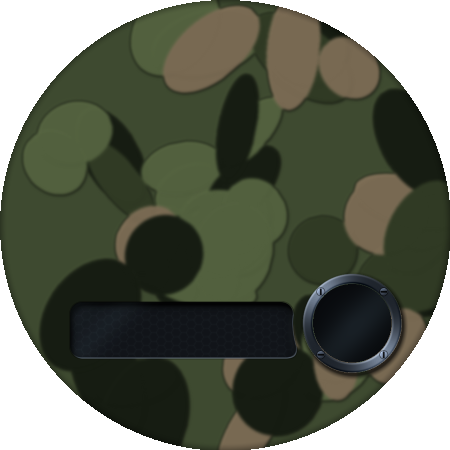
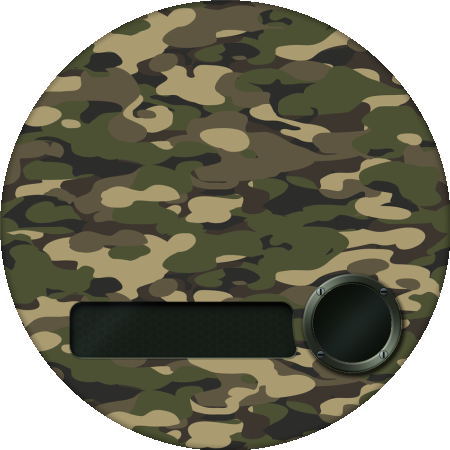
feat(camo): integrate authentic woodland camo pattern from uploaded image with full bleed and aligned chambers (v2.4)

diff --git a/generate_clean_backgrounds_and_quad_chambers.py b/generate_clean_backgrounds_and_quad_chambers.py
@@ -585,11 +585,41 @@ def build_3d_camo_plate(base_col, camo_palette, seed_val, count_inner, count_out
 
 import numpy as np
 
-# 2. URBAN CAMO
-camo_urban = [(26, 30, 36), (58, 64, 72), (92, 98, 108), (140, 146, 156)]
-img_02 = build_3d_camo_plate((46, 52, 60), camo_urban, seed_val=42, count_inner=22, count_outer=26, rx_range=(20, 48), ry_range=(14, 32))
+# 2. WOODLAND CAMO (bg_lcd_camo.png)
+src_camo_path = os.path.join(EXPORT_DIR, "source_camo_woodland.png")
+if not os.path.exists(src_camo_path):
+    alt_path = "C:/Users/bonst/.gemini/antigravity/brain/d3a6c7d4-5613-437a-a72c-e90fec512f25/.user_uploaded/media_1792233428021_086ed444.png"
+    if os.path.exists(alt_path):
+        raw_crop = Image.open(alt_path).crop((0, 0, 948, 948))
+        raw_crop.save(src_camo_path)
+
+camo_src = Image.open(src_camo_path).convert("RGB").resize((W, H), Image.Resampling.LANCZOS)
+arr_camo = np.array(camo_src, dtype=float)
+vig_camo = np.array(vig_map).reshape((H, W))
+disc_camo = np.array(inside_disc).reshape((H, W))
+
+arr_camo_vig = np.clip(arr_camo * vig_camo[:, :, np.newaxis], 0, 255).astype(np.uint8)
+alpha_camo = (disc_camo * 255).astype(np.uint8)
+img_02 = Image.fromarray(np.dstack([arr_camo_vig, alpha_camo]))
+
 apply_pods_and_subdial_housing_2x(
     img_02,
+    floor_rgb=(17, 23, 16),
+    bev_lit_rgb=(148, 166, 142),
+    bev_sh_rgb=(4, 6, 4),
+    honeycomb_gain=0.18,
+    sub_base_f=(36.0, 42.0, 34.0),
+    sub_spec_f=(160.0, 175.0, 155.0),
+    well_rgb=(16.0, 22.0, 15.0),
+)
+save_bg_from_2x(img_02, "bg_lcd_camo.png")
+save_quad_chamber_3d(2, floor_rgb=(17, 23, 16), bev_lit_rgb=(148, 166, 142), bev_sh_rgb=(4, 6, 4), honeycomb_gain=0.18)
+
+# 3. URBAN CAMO (bg_lcd_camo_urban.png)
+camo_urban = [(26, 30, 36), (58, 64, 72), (92, 98, 108), (140, 146, 156)]
+img_03 = build_3d_camo_plate((46, 52, 60), camo_urban, seed_val=42, count_inner=22, count_outer=26, rx_range=(20, 48), ry_range=(14, 32))
+apply_pods_and_subdial_housing_2x(
+    img_03,
     floor_rgb=(17, 23, 16),
     bev_lit_rgb=(152, 170, 146),
     bev_sh_rgb=(4, 6, 4),
@@ -598,10 +628,42 @@ apply_pods_and_subdial_housing_2x(
     sub_spec_f=(164.0, 180.0, 162.0),
     well_rgb=(16.0, 22.0, 15.0),
 )
-save_bg_from_2x(img_02, "bg_lcd_camo_urban.png")
-save_quad_chamber_3d(2, floor_rgb=(17, 23, 16), bev_lit_rgb=(152, 170, 146), bev_sh_rgb=(4, 6, 4), honeycomb_gain=0.18)
+save_bg_from_2x(img_03, "bg_lcd_camo_urban.png")
+save_quad_chamber_3d(3, floor_rgb=(17, 23, 16), bev_lit_rgb=(152, 170, 146), bev_sh_rgb=(4, 6, 4), honeycomb_gain=0.18)
 
-# 3. CARBON FIBER (bg_lcd_carbon_fiber.png)
+# 4. DESERT CAMO (bg_lcd_camo_desert.png)
+camo_desert = [(68, 54, 40), (124, 102, 78), (170, 146, 116), (208, 186, 154)]
+img_04 = build_3d_camo_plate((148, 126, 98), camo_desert, seed_val=88, count_inner=22, count_outer=26, rx_range=(20, 48), ry_range=(14, 32))
+apply_pods_and_subdial_housing_2x(
+    img_04,
+    floor_rgb=(21, 17, 12),
+    bev_lit_rgb=(185, 165, 138),
+    bev_sh_rgb=(6, 5, 3),
+    honeycomb_gain=0.18,
+    sub_base_f=(48.0, 42.0, 32.0),
+    sub_spec_f=(195.0, 180.0, 155.0),
+    well_rgb=(20.0, 16.0, 11.0),
+)
+save_bg_from_2x(img_04, "bg_lcd_camo_desert.png")
+save_quad_chamber_3d(4, floor_rgb=(21, 17, 12), bev_lit_rgb=(185, 165, 138), bev_sh_rgb=(6, 5, 3), honeycomb_gain=0.18)
+
+# 5. ZEBRA CAMO (bg_lcd_camo_zebra.png)
+camo_zebra = [(18, 20, 24), (45, 48, 54), (160, 165, 175), (215, 220, 228)]
+img_05 = build_3d_camo_plate((88, 92, 102), camo_zebra, seed_val=19, count_inner=28, count_outer=32, rx_range=(12, 34), ry_range=(24, 60))
+apply_pods_and_subdial_housing_2x(
+    img_05,
+    floor_rgb=(12, 15, 20),
+    bev_lit_rgb=(155, 170, 192),
+    bev_sh_rgb=(3, 4, 6),
+    honeycomb_gain=0.18,
+    sub_base_f=(34.0, 38.0, 46.0),
+    sub_spec_f=(165.0, 180.0, 205.0),
+    well_rgb=(12.0, 15.0, 20.0),
+)
+save_bg_from_2x(img_05, "bg_lcd_camo_zebra.png")
+save_quad_chamber_3d(5, floor_rgb=(12, 15, 20), bev_lit_rgb=(155, 170, 192), bev_sh_rgb=(3, 4, 6), honeycomb_gain=0.18)
+
+# 6. CARBON FIBER (bg_lcd_carbon_fiber.png)
 pitch_cf = 12 * scale
 twill = bytearray(pitch_cf * pitch_cf)
 for ty in range(pitch_cf):
@@ -632,9 +694,9 @@ for y in range(H):
             cf_bytes[idx+2] = int(max(0, min(255, bv)))
             cf_bytes[idx+3] = 255
 
-img_03 = Image.frombytes("RGBA", (W, H), bytes(cf_bytes))
+img_06 = Image.frombytes("RGBA", (W, H), bytes(cf_bytes))
 apply_pods_and_subdial_housing_2x(
-    img_03,
+    img_06,
     floor_rgb=(13, 16, 21),
     bev_lit_rgb=(145, 162, 185),
     bev_sh_rgb=(3, 5, 8),
@@ -643,56 +705,8 @@ apply_pods_and_subdial_housing_2x(
     sub_spec_f=(160.0, 175.0, 198.0),
     well_rgb=(12.0, 15.0, 20.0),
 )
-save_bg_from_2x(img_03, "bg_lcd_carbon_fiber.png")
-save_quad_chamber_3d(3, floor_rgb=(13, 16, 21), bev_lit_rgb=(145, 162, 185), bev_sh_rgb=(3, 5, 8), honeycomb_gain=0.18)
-
-# 4. DESERT CAMO
-camo_desert = [(68, 54, 40), (124, 102, 78), (170, 146, 116), (208, 186, 154)]
-img_04 = build_3d_camo_plate((148, 126, 98), camo_desert, seed_val=88, count_inner=22, count_outer=26, rx_range=(20, 48), ry_range=(14, 32))
-apply_pods_and_subdial_housing_2x(
-    img_04,
-    floor_rgb=(21, 17, 12),
-    bev_lit_rgb=(185, 165, 138),
-    bev_sh_rgb=(6, 5, 3),
-    honeycomb_gain=0.18,
-    sub_base_f=(48.0, 42.0, 32.0),
-    sub_spec_f=(195.0, 180.0, 155.0),
-    well_rgb=(20.0, 16.0, 11.0),
-)
-save_bg_from_2x(img_04, "bg_lcd_camo_desert.png")
-save_quad_chamber_3d(4, floor_rgb=(21, 17, 12), bev_lit_rgb=(185, 165, 138), bev_sh_rgb=(6, 5, 3), honeycomb_gain=0.18)
-
-# 5. ZEBRA CAMO
-camo_zebra = [(18, 20, 24), (45, 48, 54), (160, 165, 175), (215, 220, 228)]
-img_05 = build_3d_camo_plate((88, 92, 102), camo_zebra, seed_val=19, count_inner=28, count_outer=32, rx_range=(12, 34), ry_range=(24, 60))
-apply_pods_and_subdial_housing_2x(
-    img_05,
-    floor_rgb=(12, 15, 20),
-    bev_lit_rgb=(155, 170, 192),
-    bev_sh_rgb=(3, 4, 6),
-    honeycomb_gain=0.18,
-    sub_base_f=(34.0, 38.0, 46.0),
-    sub_spec_f=(165.0, 180.0, 205.0),
-    well_rgb=(12.0, 15.0, 20.0),
-)
-save_bg_from_2x(img_05, "bg_lcd_camo_zebra.png")
-save_quad_chamber_3d(5, floor_rgb=(12, 15, 20), bev_lit_rgb=(155, 170, 192), bev_sh_rgb=(3, 4, 6), honeycomb_gain=0.18)
-
-# 6. WOODLAND CAMO
-camo_woodland = [(22, 28, 18), (48, 58, 36), (82, 96, 62), (120, 105, 82)]
-img_06 = build_3d_camo_plate((62, 74, 48), camo_woodland, seed_val=55, count_inner=22, count_outer=26, rx_range=(20, 48), ry_range=(14, 32))
-apply_pods_and_subdial_housing_2x(
-    img_06,
-    floor_rgb=(12, 15, 19),
-    bev_lit_rgb=(148, 166, 188),
-    bev_sh_rgb=(3, 5, 7),
-    honeycomb_gain=0.18,
-    sub_base_f=(32.0, 38.0, 46.0),
-    sub_spec_f=(160.0, 178.0, 204.0),
-    well_rgb=(12.0, 15.0, 19.0),
-)
-save_bg_from_2x(img_06, "bg_lcd_camo.png")
-save_quad_chamber_3d(6, floor_rgb=(12, 15, 19), bev_lit_rgb=(148, 166, 188), bev_sh_rgb=(3, 5, 7), honeycomb_gain=0.18)
+save_bg_from_2x(img_06, "bg_lcd_carbon_fiber.png")
+save_quad_chamber_3d(6, floor_rgb=(13, 16, 21), bev_lit_rgb=(145, 162, 185), bev_sh_rgb=(3, 5, 8), honeycomb_gain=0.18)
 
 # 7. GLOSS PIANO BLACK (bg_lcd_gloss_black.png)
 gp_bytes = bytearray(W * H * 4)
